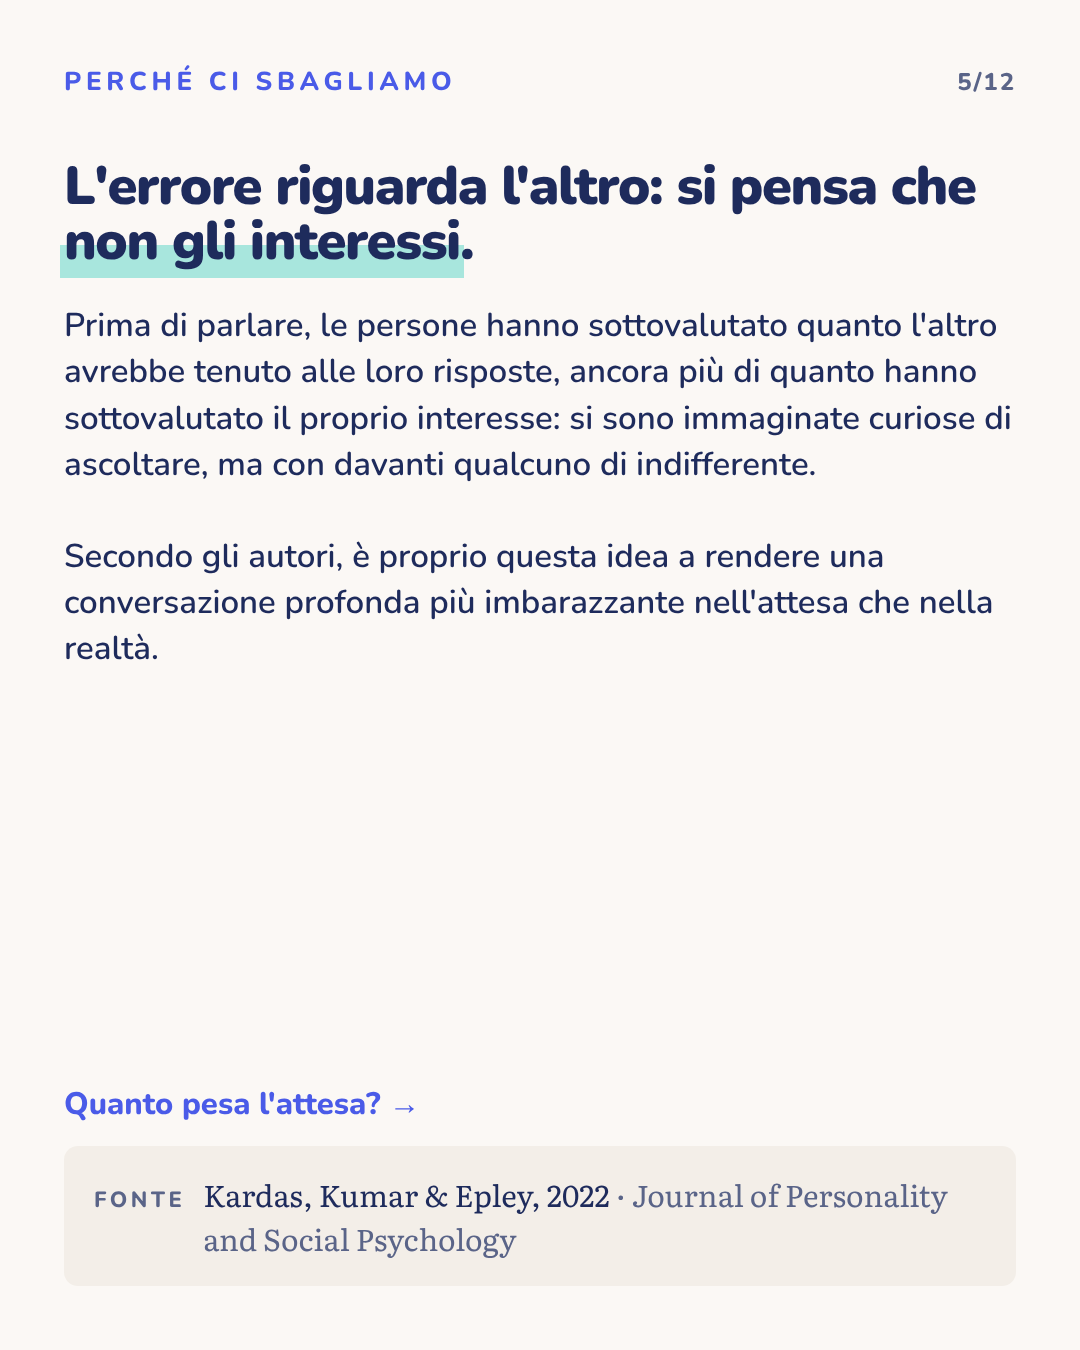
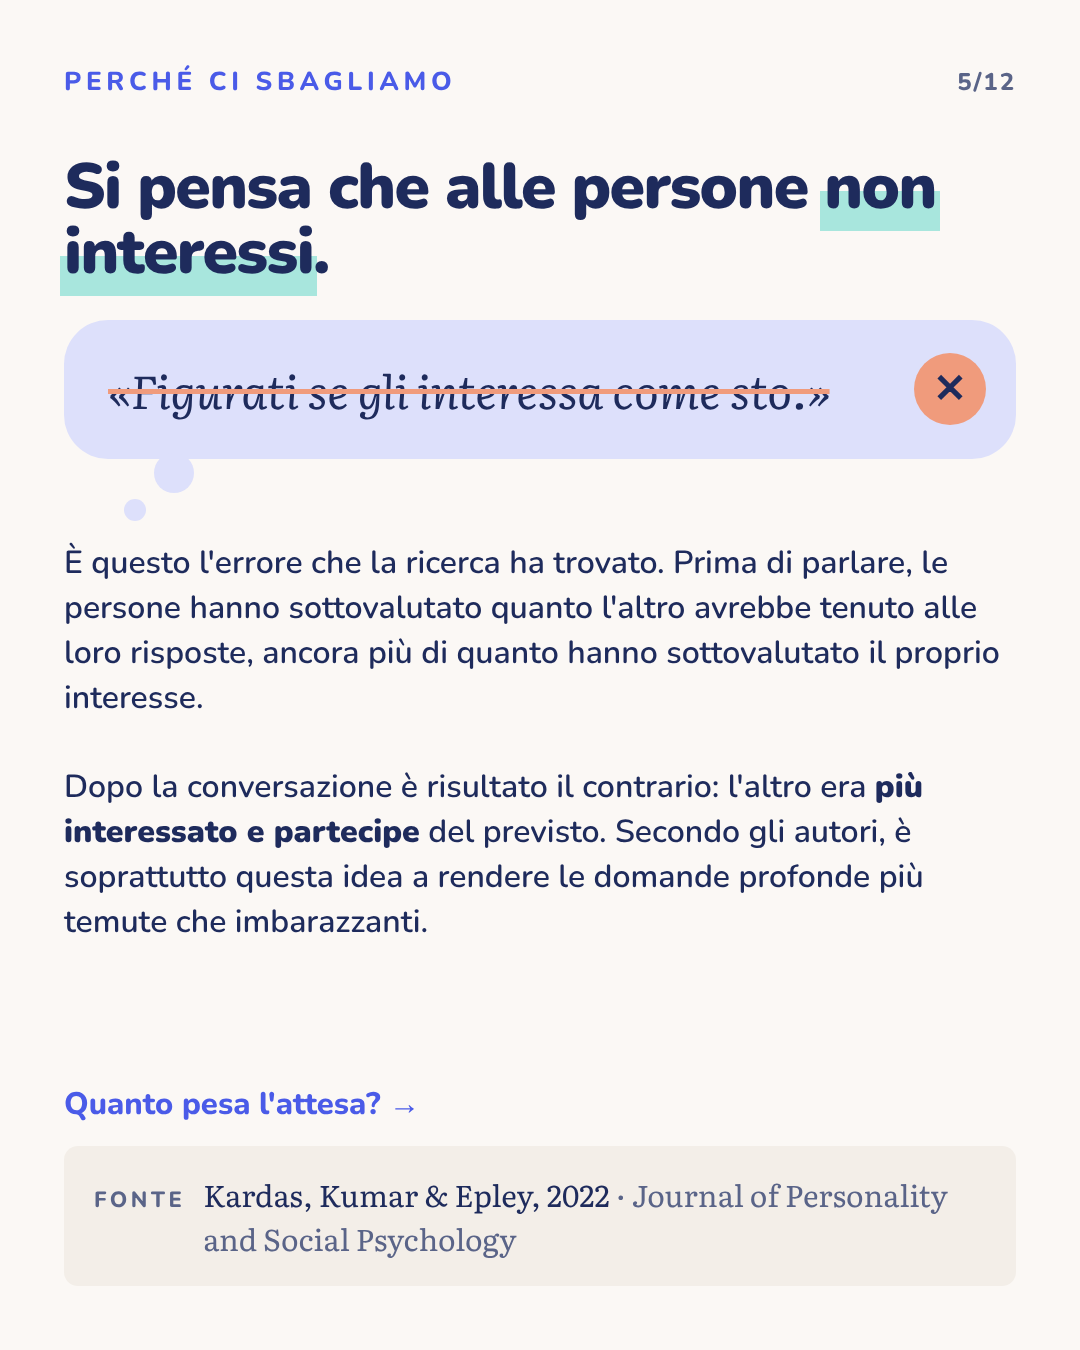
Carosello come-stai: slide 5 centrata su «si pensa che alle persone non interessi»
Claude-Session: https://claude.ai/code/session_01KYQeP73Zvn8PeP6zhkL2Sc

Changed region(s): [[0.0611, 0.1244, 0.9472, 0.5289], [0.0611, 0.56, 0.8556, 0.7156]]

diff --git a/carosselli/come-stai/editor-testi.html b/carosselli/come-stai/editor-testi.html
@@ -201,6 +201,11 @@ svg.shape{position:absolute;z-index:1}
 .pd1 div{background:var(--teal-soft);border-radius:24px;padding:24px 30px;display:flex;flex-direction:column;gap:6px}
 .pd1 small{font-weight:800;font-size:23px;letter-spacing:.12em;text-transform:uppercase;color:var(--teal-text)}
 .pd1 b{font-weight:900;font-size:42px;line-height:1.15}
+.think{position:relative;background:var(--peri-soft);border-radius:44px;padding:40px 120px 40px 44px;margin-bottom:48px}
+.think::after{content:"";position:absolute;left:90px;bottom:-34px;width:40px;height:40px;border-radius:50%;background:var(--peri-soft)}
+.think::before{content:"";position:absolute;left:60px;bottom:-62px;width:22px;height:22px;border-radius:50%;background:var(--peri-soft)}
+.think p{font-family:'Literata',serif;font-style:italic;font-size:46px;line-height:1.3;color:var(--ink);text-decoration:line-through;text-decoration-color:var(--coral);text-decoration-thickness:5px}
+.think .no{position:absolute;right:30px;top:50%;transform:translateY(-50%);width:72px;height:72px;border-radius:50%;background:var(--coral);color:var(--ink);font-weight:900;font-size:40px;display:flex;align-items:center;justify-content:center}
 
 </style>
 <div class="bar"><div class="in">
@@ -260,12 +265,16 @@ svg.shape{position:absolute;z-index:1}
   <div class="src"><b data-e="s4-12">FONTE</b><span data-e="s4-13"><em>Kardas, Kumar &amp; Epley, 2022</em> · Journal of Personality and Social Psychology</span></div>
 </section></div></div></div><div class="cell"><span class="lab">Slide 5 di 12</span><div class="frame"><div class="deck"><section class="slide" id="s5">
   <div class="top"><p class="kicker we" data-e="s5-1">Perché ci sbagliamo</p><div class="count" data-e="s5-2">5/12</div></div>
-  <div class="stack" style="margin-top:60px;gap:34px">
-    <h2 style="font-size:54px" data-e="s5-3">L'errore riguarda l'altro: si pensa che <span class="hl t">non gli interessi</span>.</h2>
-    <p class="mid" style="font-size:33px" data-e="s5-4">Prima di parlare, le persone hanno sottovalutato quanto l'altro avrebbe tenuto alle loro risposte, ancora più di quanto hanno sottovalutato il proprio interesse: si sono immaginate curiose di ascoltare, ma con davanti qualcuno di indifferente.<br><br>Secondo gli autori, è proprio questa idea a rendere una conversazione profonda più imbarazzante nell'attesa che nella realtà.</p>
+  <div class="stack" style="margin-top:56px;gap:34px">
+    <h2 style="font-size:64px" data-e="s5-3">Si pensa che alle persone <span class="hl t">non interessi</span>.</h2>
+    <div class="think">
+      <p data-e="s5-4">«Figurati se gli interessa come sto.»</p>
+      <span class="no" data-e="s5-5">✕</span>
+    </div>
+    <p class="mid" style="font-size:32px" data-e="s5-6">È questo l'errore che la ricerca ha trovato. Prima di parlare, le persone hanno sottovalutato quanto l'altro avrebbe tenuto alle loro risposte, ancora più di quanto hanno sottovalutato il proprio interesse.<br><br>Dopo la conversazione è risultato il contrario: l'altro era <b>più interessato e partecipe</b> del previsto. Secondo gli autori, è soprattutto questa idea a rendere le domande profonde più temute che imbarazzanti.</p>
   </div>
-  <p class="next" data-e="s5-5">Quanto pesa l'attesa? →</p>
-  <div class="src"><b data-e="s5-6">FONTE</b><span data-e="s5-7"><em>Kardas, Kumar &amp; Epley, 2022</em> · Journal of Personality and Social Psychology</span></div>
+  <p class="next" data-e="s5-7">Quanto pesa l'attesa? →</p>
+  <div class="src"><b data-e="s5-8">FONTE</b><span data-e="s5-9"><em>Kardas, Kumar &amp; Epley, 2022</em> · Journal of Personality and Social Psychology</span></div>
 </section></div></div></div><div class="cell"><span class="lab">Slide 6 di 12</span><div class="frame"><div class="deck"><section class="slide" id="s6">
   <div class="top"><p class="kicker we" data-e="s6-1">Profonde o leggere</p><div class="count" data-e="s6-2">6/12</div></div>
   <div class="stack" style="margin-top:50px;gap:30px">

diff --git a/carosselli/come-stai/slides.html b/carosselli/come-stai/slides.html
@@ -171,6 +171,11 @@ svg.shape{position:absolute;z-index:1}
 .pd1 div{background:var(--teal-soft);border-radius:24px;padding:24px 30px;display:flex;flex-direction:column;gap:6px}
 .pd1 small{font-weight:800;font-size:23px;letter-spacing:.12em;text-transform:uppercase;color:var(--teal-text)}
 .pd1 b{font-weight:900;font-size:42px;line-height:1.15}
+.think{position:relative;background:var(--peri-soft);border-radius:44px;padding:40px 120px 40px 44px;margin-bottom:48px}
+.think::after{content:"";position:absolute;left:90px;bottom:-34px;width:40px;height:40px;border-radius:50%;background:var(--peri-soft)}
+.think::before{content:"";position:absolute;left:60px;bottom:-62px;width:22px;height:22px;border-radius:50%;background:var(--peri-soft)}
+.think p{font-family:'Literata',serif;font-style:italic;font-size:46px;line-height:1.3;color:var(--ink);text-decoration:line-through;text-decoration-color:var(--coral);text-decoration-thickness:5px}
+.think .no{position:absolute;right:30px;top:50%;transform:translateY(-50%);width:72px;height:72px;border-radius:50%;background:var(--coral);color:var(--ink);font-weight:900;font-size:40px;display:flex;align-items:center;justify-content:center}
 </style>
 
 <section class="slide" id="s1">
@@ -229,9 +234,13 @@ svg.shape{position:absolute;z-index:1}
 
 <section class="slide" id="s5">
   <div class="top"><p class="kicker we">Perché ci sbagliamo</p><div class="count">5/12</div></div>
-  <div class="stack" style="margin-top:60px;gap:34px">
-    <h2 style="font-size:54px">L'errore riguarda l'altro: si pensa che <span class="hl t">non gli interessi</span>.</h2>
-    <p class="mid" style="font-size:33px">Prima di parlare, le persone hanno sottovalutato quanto l'altro avrebbe tenuto alle loro risposte, ancora più di quanto hanno sottovalutato il proprio interesse: si sono immaginate curiose di ascoltare, ma con davanti qualcuno di indifferente.<br><br>Secondo gli autori, è proprio questa idea a rendere una conversazione profonda più imbarazzante nell'attesa che nella realtà.</p>
+  <div class="stack" style="margin-top:56px;gap:34px">
+    <h2 style="font-size:64px">Si pensa che alle persone <span class="hl t">non interessi</span>.</h2>
+    <div class="think">
+      <p>«Figurati se gli interessa come sto.»</p>
+      <span class="no">✕</span>
+    </div>
+    <p class="mid" style="font-size:32px">È questo l'errore che la ricerca ha trovato. Prima di parlare, le persone hanno sottovalutato quanto l'altro avrebbe tenuto alle loro risposte, ancora più di quanto hanno sottovalutato il proprio interesse.<br><br>Dopo la conversazione è risultato il contrario: l'altro era <b>più interessato e partecipe</b> del previsto. Secondo gli autori, è soprattutto questa idea a rendere le domande profonde più temute che imbarazzanti.</p>
   </div>
   <p class="next">Quanto pesa l'attesa? →</p>
   <div class="src"><b>FONTE</b><span><em>Kardas, Kumar &amp; Epley, 2022</em> · Journal of Personality and Social Psychology</span></div>

diff --git a/carosselli/come-stai/body.html b/carosselli/come-stai/body.html
@@ -96,6 +96,11 @@
 .pd1 div{background:var(--teal-soft);border-radius:24px;padding:24px 30px;display:flex;flex-direction:column;gap:6px}
 .pd1 small{font-weight:800;font-size:23px;letter-spacing:.12em;text-transform:uppercase;color:var(--teal-text)}
 .pd1 b{font-weight:900;font-size:42px;line-height:1.15}
+.think{position:relative;background:var(--peri-soft);border-radius:44px;padding:40px 120px 40px 44px;margin-bottom:48px}
+.think::after{content:"";position:absolute;left:90px;bottom:-34px;width:40px;height:40px;border-radius:50%;background:var(--peri-soft)}
+.think::before{content:"";position:absolute;left:60px;bottom:-62px;width:22px;height:22px;border-radius:50%;background:var(--peri-soft)}
+.think p{font-family:'Literata',serif;font-style:italic;font-size:46px;line-height:1.3;color:var(--ink);text-decoration:line-through;text-decoration-color:var(--coral);text-decoration-thickness:5px}
+.think .no{position:absolute;right:30px;top:50%;transform:translateY(-50%);width:72px;height:72px;border-radius:50%;background:var(--coral);color:var(--ink);font-weight:900;font-size:40px;display:flex;align-items:center;justify-content:center}
 </style>
 
 <section class="slide" id="s1">
@@ -154,9 +159,13 @@
 
 <section class="slide" id="s5">
   <div class="top"><p class="kicker we">Perché ci sbagliamo</p><div class="count">5/12</div></div>
-  <div class="stack" style="margin-top:60px;gap:34px">
-    <h2 style="font-size:54px">L'errore riguarda l'altro: si pensa che <span class="hl t">non gli interessi</span>.</h2>
-    <p class="mid" style="font-size:33px">Prima di parlare, le persone hanno sottovalutato quanto l'altro avrebbe tenuto alle loro risposte, ancora più di quanto hanno sottovalutato il proprio interesse: si sono immaginate curiose di ascoltare, ma con davanti qualcuno di indifferente.<br><br>Secondo gli autori, è proprio questa idea a rendere una conversazione profonda più imbarazzante nell'attesa che nella realtà.</p>
+  <div class="stack" style="margin-top:56px;gap:34px">
+    <h2 style="font-size:64px">Si pensa che alle persone <span class="hl t">non interessi</span>.</h2>
+    <div class="think">
+      <p>«Figurati se gli interessa come sto.»</p>
+      <span class="no">✕</span>
+    </div>
+    <p class="mid" style="font-size:32px">È questo l'errore che la ricerca ha trovato. Prima di parlare, le persone hanno sottovalutato quanto l'altro avrebbe tenuto alle loro risposte, ancora più di quanto hanno sottovalutato il proprio interesse.<br><br>Dopo la conversazione è risultato il contrario: l'altro era <b>più interessato e partecipe</b> del previsto. Secondo gli autori, è soprattutto questa idea a rendere le domande profonde più temute che imbarazzanti.</p>
   </div>
   <p class="next">Quanto pesa l'attesa? →</p>
   <div class="src"><b>FONTE</b><span><em>Kardas, Kumar &amp; Epley, 2022</em> · Journal of Personality and Social Psychology</span></div>

diff --git a/carosselli/come-stai/kit-pubblicazione-come-stai.md b/carosselli/come-stai/kit-pubblicazione-come-stai.md
@@ -60,7 +60,7 @@ Come abbiamo letto i numeri: nella slide 8 le percentuali sono la quota di doman
 2. «Tutto bene? E la partita?» Molte persone, e molti uomini, con gli amici parlano di calcio e lavoro; la domanda vera resta in gola.
 3. La ricerca: 12 esperimenti, tra sconosciuti e in uno con amici, partner e familiari; conversazioni di circa 10 minuti con domande leggere o profonde; aspettative prima e esperienza dopo.
 4. Il risultato: imbarazzo meno di quanto temuto; vicinanza e felicità più di quanto previsto. 50 dirigenti, per l'82% uomini, vorrebbero più conversazioni profonde.
-5. Perché ci sbagliamo: si sottovaluta quanto l'altro tiene alle nostre risposte.
+5. Perché ci sbagliamo: «Si pensa che alle persone non interessi.» Un fumetto con il pensiero «Figurati se gli interessa come sto», barrato. Prima di parlare si è sottovalutato quanto l'altro avrebbe tenuto alle risposte; dopo, l'altro è risultato più interessato del previsto.
 6. 4 volte: la differenza di imbarazzo attesa tra domande profonde e leggere è stata circa quattro volte quella vissuta.
 7. Con uno sconosciuto il divario tra attese e realtà è grande; con chi si conosce è più piccolo, ma c'è. Barre illustrative.
 8. Chi immaginava una persona attenta ha scelto domande profonde nel 62% dei casi; chi la immaginava indifferente nel 40%.
